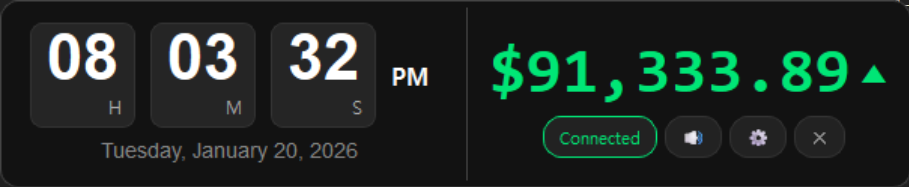
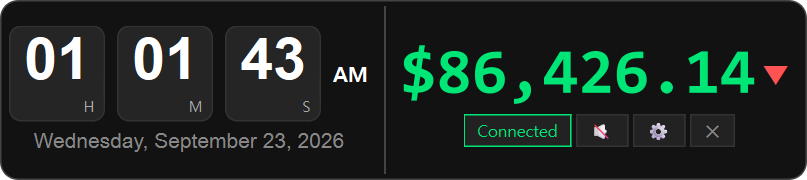
docs: refresh README and app screenshots

diff --git a/README.md b/README.md
@@ -1,118 +1,195 @@
 # BitTalker
 
-Real-time Bitcoin price monitoring desktop app with voice alerts.
+Real-time Bitcoin price monitor with desktop UI and voice alerts.
 
 ![Python](https://img.shields.io/badge/Python-3.10+-blue)
-![PyQt6](https://img.shields.io/badge/PyQt6-green)
+![PyQt6](https://img.shields.io/badge/PyQt6-6.6%2B-green)
 ![License](https://img.shields.io/badge/License-MIT-yellow)
+
+## Overview
+
+BitTalker is a lightweight Windows desktop app that tracks the live BTC/USDT price from Binance and announces price threshold crossings through local TTS audio. It is designed as a compact, always-on-top ticker that can also switch to a fuller normal layout for monitoring and settings.
 
 ## Features
 
-- 📈 **Real-time Price** - Binance WebSocket integration
-- 🔊 **Voice Alerts** - AI TTS powered by [Supertonic 3](https://github.com/supertone-inc/supertonic) (5 languages)
-- 💰 **Price Interval Alerts** - Get notified when price crosses configurable thresholds (e.g., every $50, $100)
-- 🎨 **Dark Theme** - Modern UI with flip clock display
-- 📐 **Layout Modes** - Ticker (compact) / Normal mode
-- 💾 **Persistent Settings** - JSON-based configuration
+- 📈 Real-time BTC price updates via Binance WebSocket
+- 💰 Interval-based alerts such as $50, $100, $500, etc.
+- 🔊 Local TTS alerts using Supertonic ONNX models
+- 🌍 Multi-language notification text: Korean, English, Spanish, Portuguese, French
+- 🎛 Configurable voice style selection (`F1`-`F5`, `M1`-`M5`)
+- 🕒 Compact ticker layout and full desktop layout modes
+- ⚙ Persistent settings saved to `settings.json`
+- 🔇 Mute / unmute toggle and voice test support
+- 💡 Hourly chime and moving price indicator (`▲` / `▼`)
 
 ## Screenshots
 
-### Ticker Mode
-<img src="docs/screenshot_ticker.png" width="868" alt="Ticker Mode">
+### Ticker mode
+<img src="docs/screenshot_ticker.png" width="868" alt="Ticker mode screen">
 
-### Normal Mode
-<img src="docs/screenshot_normal.png" width="909" alt="Normal Mode">
+### Normal mode
+<img src="docs/screenshot_normal.png" width="909" alt="Normal mode screen">
 
-### Settings
-<img src="docs/screenshot_settings.png" width="454" alt="Settings">
-
-## Installation
-
-```bash
-# Clone
-git clone https://github.com/yusulike/bittalker.git
-cd bittalker
-
-# Install dependencies
-pip install -r requirements.txt
-
-# Download TTS models (first time only)
-python scripts/download_assets.py
-
-# Run
-python src/main.py
-```
+### Settings dialog
+<img src="docs/screenshot_settings.png" width="454" alt="Settings dialog">
 
 ## Requirements
 
-- Windows (audio playback uses `winsound`)
+- Windows 10/11
 - Python 3.10+
+- PyQt6 GUI runtime
+- Audio output via `winsound` on Windows
 
+### Python dependencies
+
+```bash
+pip install -r requirements.txt
 ```
+
+Installed packages include:
+
+```txt
 PyQt6>=6.6.0
 websocket-client>=1.6.0
 onnxruntime>=1.16.0
 numpy>=1.24.0
 soundfile>=0.12.0
 requests>=2.31.0
+huggingface_hub>=0.25.0
 ```
+
+## Quick Start
+
+```bash
+# 1) Clone the repo
+git clone https://github.com/yusulike/bittalker.git
+cd bittalker
+
+# 2) Install dependencies
+pip install -r requirements.txt
+
+# 3) Download the ONNX model assets (first time only)
+python scripts/download_assets.py
+
+# 4) Run the app
+python src/main.py
+```
+
+## Asset Setup
+
+The app expects the TTS model bundle under the project `assets/` directory. The download script fetches the required Supertonic assets from Hugging Face and stores them in:
+
+```text
+assets/
+├── onnx/
+│   ├── duration_predictor.onnx
+│   ├── text_encoder.onnx
+│   ├── tts.json
+│   ├── unicode_indexer.json
+│   ├── vector_estimator.onnx
+│   └── vocoder.onnx
+├── voice_styles/
+│   ├── F1.json
+│   ├── F2.json
+│   └── ...
+```
+
+If assets are missing, the app will log a warning and fall back to a generated dummy audio file rather than crashing.
 
 ## Configuration
 
-Settings are saved in `settings.json`:
+Current settings are stored in the project root `settings.json`.
 
 ```json
 {
-  "interval": 100,
+  "interval": 50,
   "voice": "F1",
   "language": "Korean",
   "always_on_top": true,
   "muted": false,
-  "ticker_mode": true
+  "ticker_mode": false
 }
 ```
 
-| Option | Description | Default |
-|--------|-------------|---------|
-| `interval` | Price alert interval in USD (e.g., 50, 100, 500) | `100` |
-| `voice` | TTS voice style (F1-F5, M1-M5) | `"F1"` |
-| `language` | Alert language | `"Korean"` |
-| `always_on_top` | Keep window on top | `true` |
-| `muted` | Mute voice alerts | `false` |
-| `ticker_mode` | Use compact ticker mode | `true` |
+| Key | Description | Default |
+|------|-------------|---------|
+| `interval` | Alert threshold in USD | `50` |
+| `voice` | Voice style (`F1`-`F5`, `M1`-`M5`) | `"F1"` |
+| `language` | Notification language | `"Korean"` |
+| `always_on_top` | Keep the window floating above other apps | `true` |
+| `muted` | Disable voice playback | `false` |
+| `ticker_mode` | Use compact ticker layout | `false` |
 
 ## Supported Languages
 
-| Language | Example Alert |
-|----------|---------------|
-| Korean | "구만 오천오백달러를 돌파했습니다" |
-| English | "Bitcoin passed 95500 dollars" |
-| Spanish | "Bitcoin superó los 95500 dólares" |
-| Portuguese | "O Bitcoin ultrapassou 95500 dólares" |
-| French | "Le Bitcoin a dépassé 95500 dollars" |
+The app currently supports the following announcement languages:
 
-## Project Structure
+| Language | Example |
+|----------|---------|
+| Korean | "구만 오천오백달러를 돌파했습니다." |
+| English | "Bitcoin passed 95500 dollars." |
+| Spanish | "Bitcoin superó los 95500 dólares." |
+| Portuguese | "O Bitcoin ultrapassou 95500 dólares." |
+| French | "Le Bitcoin a dépassé 95500 dollars." |
 
-```
+## Architecture
+
+```text
 bittalker/
 ├── src/
-│   ├── main.py           # Entry point
-│   ├── core/             # Business logic (price monitor, interval tracker)
-│   ├── services/         # TTS service
-│   ├── ui/               # PyQt6 UI components
-│   └── utils/            # Utilities (settings, text processing)
-├── assets/               # TTS models (ONNX)
-├── cache/                # Audio cache (auto-generated)
-├── docs/                 # Documentation
-└── tests/                # Unit tests
+│   ├── main.py                    # App entry point and DPI setup
+│   ├── core/
+│   │   ├── price_monitor.py       # Binance WebSocket client
+│   │   └── interval_logic.py      # Threshold crossing logic
+│   ├── services/
+│   │   ├── helper.py              # ONNX inference wrapper
+│   │   └── tts_service.py         # Audio generation and playback
+│   ├── ui/
+│   │   ├── clock_widget.py        # Flip clock widget
+│   │   ├── main_window.py         # Main PyQt UI controller
+│   │   └── settings_dialog.py     # Settings UI
+│   └── utils/
+│       ├── korean_numbers.py      # Korean number formatting for speech
+│       └── settings_manager.py    # JSON settings persistence
+├── assets/                        # Supertonic model and voice style assets
+├── cache/                         # Generated voice cache files
+├── docs/                          # Screenshots and design notes
+├── scripts/
+│   ├── check_sig.py
+│   ├── check_sig_save.py
+│   ├── download_assets.py
+│   └── ...
+├── tests/
+│   ├── test_interval.py
+│   └── test_settings_tts.py
+├── settings.json                  # User settings
+├── requirements.txt               # Python dependencies
+├── LICENSE                        # MIT License
+├── README.md
+└── debug_ws.py
 ```
+
+## Data Flow
+
+1. `PriceMonitor` connects to Binance WebSocket and emits fresh BTC prices.
+2. `MainWindow` updates the price label and direction indicator.
+3. `IntervalTracker` checks whether the price crossed the configured threshold.
+4. When a crossing occurs, the app builds a localized announcement string and calls `TTSService`.
+5. The speech engine loads a cached audio file if available, otherwise generates one from the ONNX model.
+6. Playback happens locally through Windows audio output.
+
+## Notes
+
+- The app is intentionally Windows-focused because it uses `winsound` for direct audio playback.
+- Default settings are created automatically on first launch if `settings.json` does not exist.
+- The TTS model assets are downloaded separately; without them, the app still starts but voice output is limited to a fallback sound.
+- The price logic is designed to catch boundary crossings even when the market jumps across multiple intervals in one tick.
 
 ## Credits
 
-- **TTS Engine**: [Supertonic 3](https://github.com/supertone-inc/supertonic) by Supertone Inc.
-  - Lightning-fast, on-device, multilingual TTS running natively via ONNX
-  - Model assets: [Supertone/supertonic-3](https://huggingface.co/Supertone/supertonic-3) (31-language capable; this app uses 5)
-  - Note: upstream repository was archived in July 2026
+- TTS engine: [Supertonic 3](https://github.com/supertone-inc/supertonic)
+- Model source: [Supertone/supertonic-3](https://huggingface.co/Supertone/supertonic-3)
+- UI and app logic: custom PyQt6 desktop implementation
 
 ## License
 
